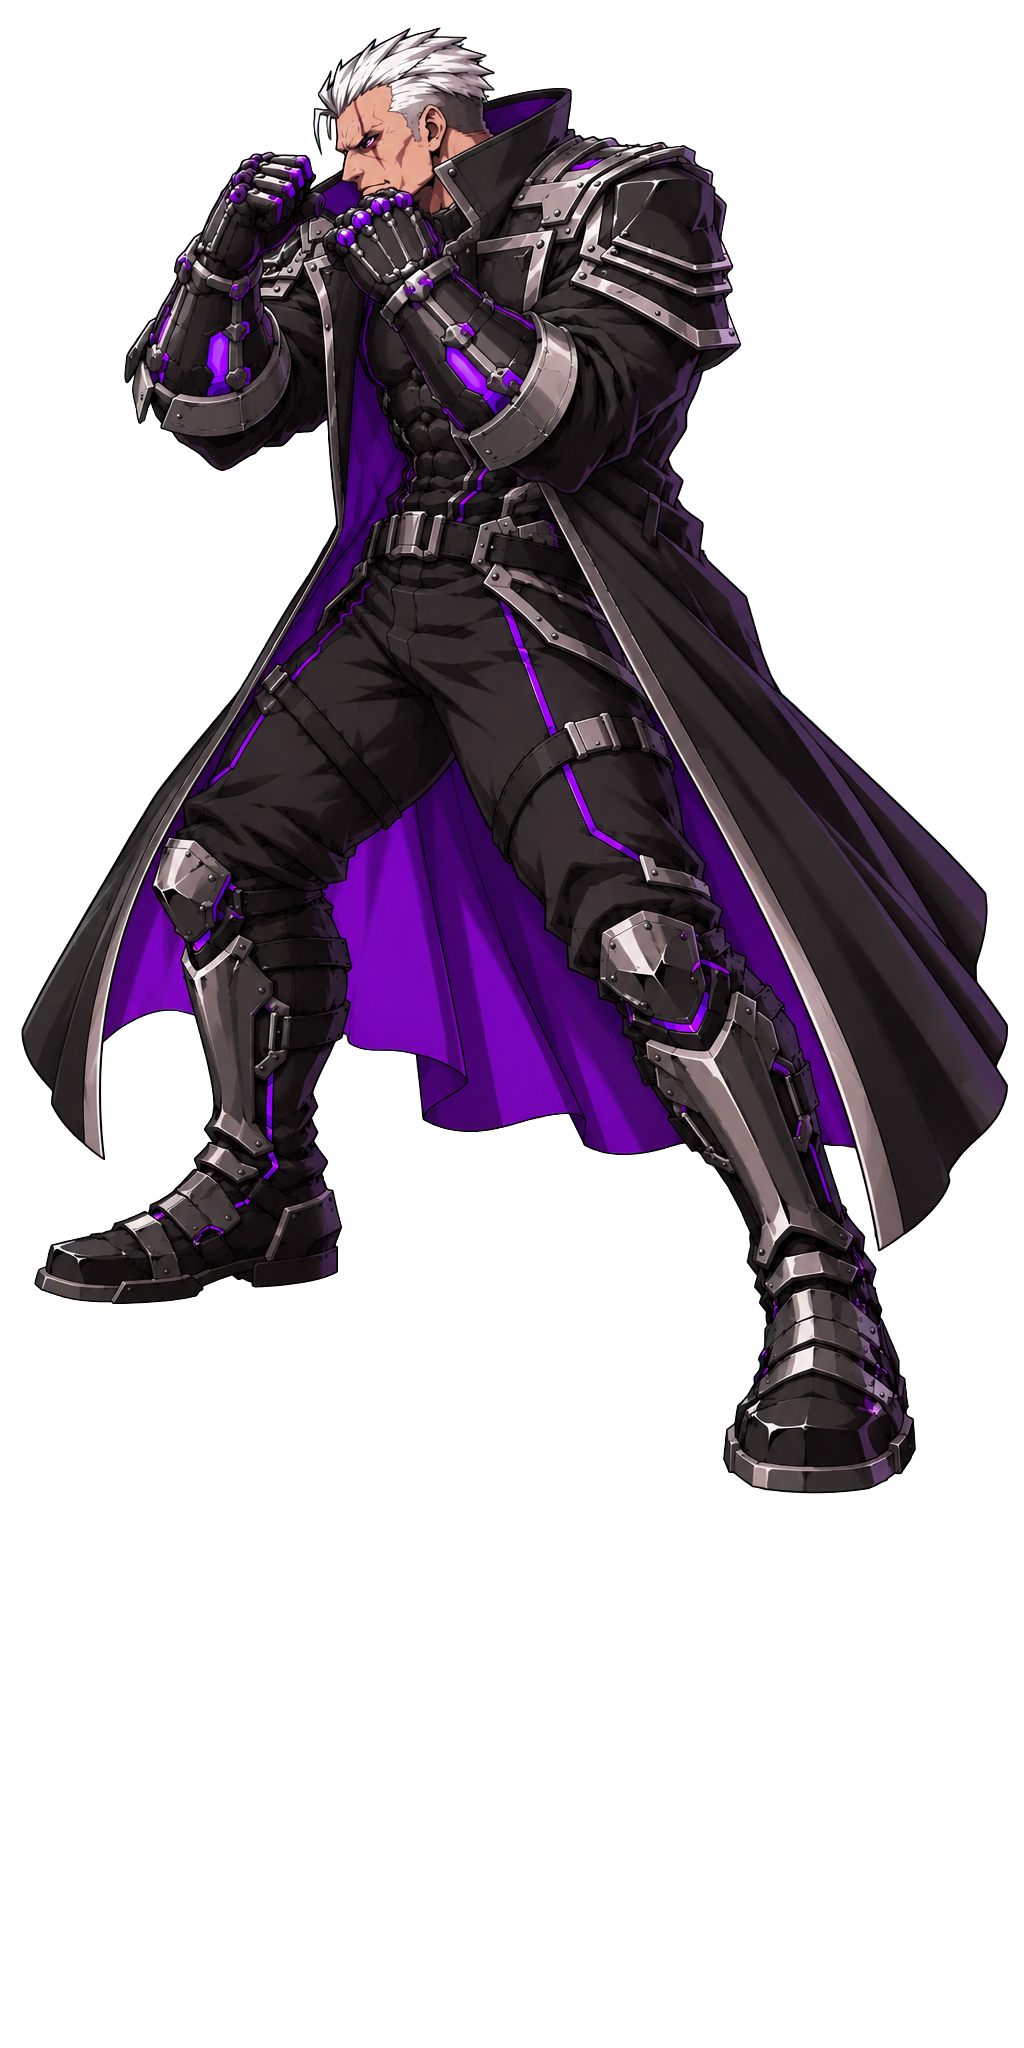
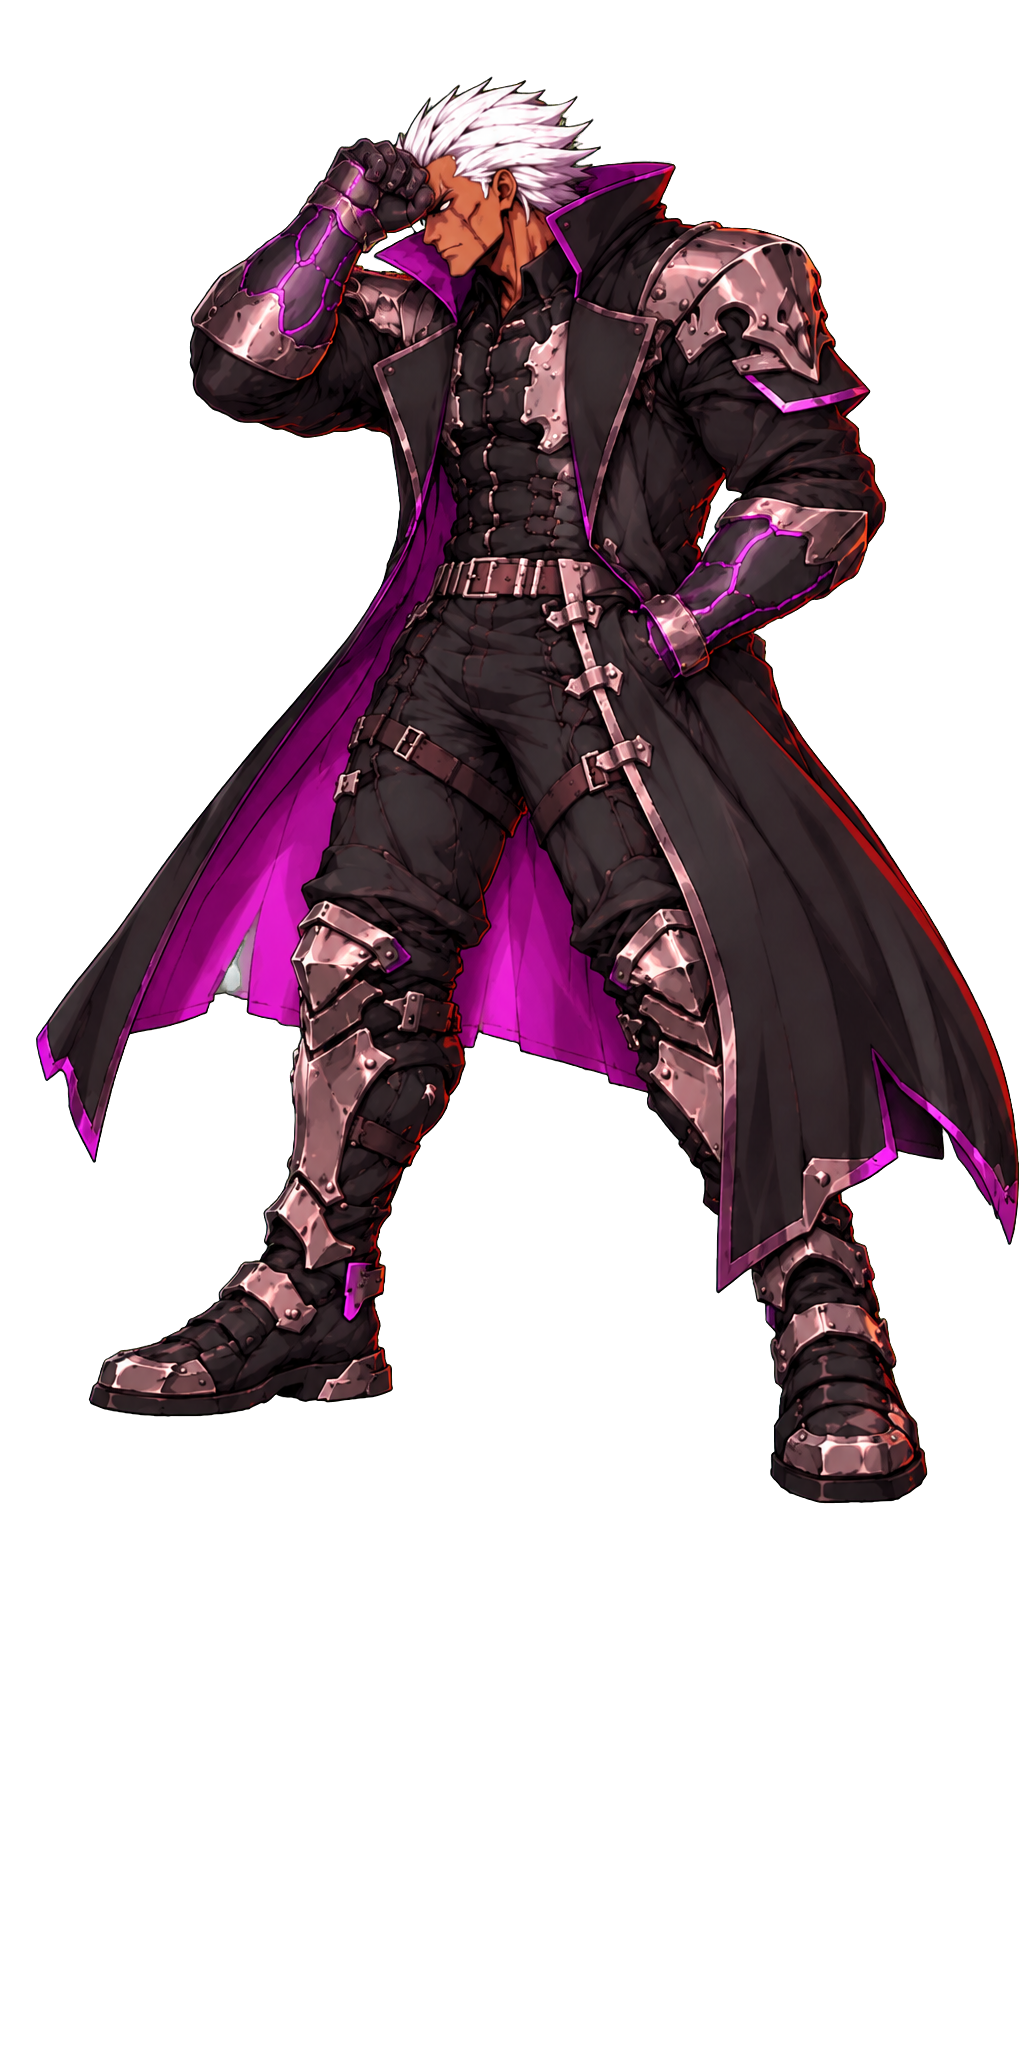
Lab : garde de l'adversaire remise ; les deux nouveaux dessins deviennent sa parade
Claude-Session: https://claude.ai/code/session_015fMRbsLJa9znv5DiAYkBLj

diff --git a/lab/src/game/rival/RivalLayer.ts b/lab/src/game/rival/RivalLayer.ts
@@ -19,9 +19,7 @@ type Point = [number, number]
  * que la tête garde la taille de celle de la garde (les illustrations ne sont pas à la même échelle).
  */
 const POSES = {
-  // garde : la main levée, et une variante où elle passe sur le front (les jambes ne bougent pas)
-  guard: { file: 'rival/guard.webp', ground: [560, 1469], scale: 1.1 },
-  guard2: { file: 'rival/guard-2.webp', ground: [559, 1471], scale: 1.1 },
+  guard: { file: 'rival/guard.webp', ground: [525, 1455], scale: 1.1 },
   // lévitation : calées sur le ceinturon de la garde, pour que le buste ne saute pas au changement de dessin ;
   // `ground` est alors le point sous le ceinturon, à hauteur du bas de la botte la plus basse
   floatForward: { file: 'rival/float-forward.webp', ground: [480, 1426], scale: 1.1 },
@@ -116,8 +114,9 @@ const POSES = {
   fxTrail3: { file: 'rival/fx-trail-3.webp', ground: [745, 1716], scale: 1 },
   fxBurst: { file: 'rival/fx-burst.webp', ground: [1057, 1716], scale: 1 },
   fxRing: { file: 'rival/fx-ring.webp', ground: [1057, 1716], scale: 1 },
-  blockStep: { file: 'rival/block-step.webp', ground: [519, 1414], scale: 1.1 },
-  block: { file: 'rival/block.webp', ground: [543, 1492], scale: 0.95 },
+  // parade : il lève la main (passage), puis se protège le front de l'avant-bras ; les jambes ne bougent pas
+  blockStep: { file: 'rival/block-step.webp', ground: [560, 1469], scale: 1.1 },
+  block: { file: 'rival/block.webp', ground: [559, 1471], scale: 1.1 },
   hurt: { file: 'rival/hurt.webp', ground: [490, 1478], scale: 0.9 },
   hurtRecover: { file: 'rival/hurt-recover.webp', ground: [564, 1472], scale: 0.9 },
 } satisfies Record<string, { file: string; ground: Point; scale: number }>
@@ -372,8 +371,6 @@ const MOVES: Record<MoveName, Move> = {
   },
 }
 /** Effets du coup spécial : durée de la croissance de la traînée, de son estompage et de l'explosion, en secondes. */
-/** Garde : toutes les `period` secondes, il garde `gesture` secondes la main sur le front (dessin `guard2`). */
-const GUARD_IDLE = { period: 3.2, gesture: 0.9 }
 const FX = { grow: 0.08, fade: 0.22, burst: 0.35 }
 /** Début de la première étape active d'un coup, en secondes : là où sa traînée d'énergie commence. */
 const activeStart = (move: Move) => {
@@ -1138,9 +1135,7 @@ export class RivalLayer implements Opponent {
       const at = (this.ghostX + PLACEMENT.depth * camera.ox - 0.5) * camera.zoom + 0.5
       drawPose('teleportStreak', 0.45 * (1 - ghost) ** 2, at, 1 + 0.5 * ghost)
     }
-    // en garde, il passe de temps en temps la main sur le front
-    const idle = this.pose === 'guard' && (frame.time % GUARD_IDLE.period) > GUARD_IDLE.period - GUARD_IDLE.gesture
-    if (!this.vanished) drawPose(idle ? 'guard2' : this.pose, 1)
+    if (!this.vanished) drawPose(this.pose, 1)
     // coup spécial : la traînée d'énergie grandit en trois dessins pendant la jambe tendue, puis s'estompe
     const strength = calm ? 0.6 : 1
     // (même effet sur le coup de poing de sa suite)

diff --git a/lab/docs/ASSETS.md b/lab/docs/ASSETS.md
@@ -74,7 +74,7 @@ python3 tools/prepare_rival.py
 
 Le script lit tous les `../art/rival-*.png` (personnage tourné vers la gauche, mêmes contraintes que les poses du personnage), retire le fond vert et écrit une image par pose dans `public/assets/rival/`. Il affiche aussi l'étendue des appuis et le bord avant du corps, qui servent à régler le point posé au sol, `surface` et `gap` dans `src/game/rival/RivalLayer.ts`.
 
-La garde de l'adversaire : `rival-guard.png` (la main levée, remplacée le 18 octobre) et sa variante `rival-guard-2.png` (la main sur le front). Pour la lévitation, `rival-float-forward.png` (penché vers l'avant, pour avancer) et `rival-float-back.png` (droit, pour reculer) et `rival-float-start.png` (pose de passage, droite, en l'air). Pour la téléportation : `rival-teleport-crouch.png`, `rival-teleport-streak.png` (le même, dans un trait de vitesse) et `rival-teleport-rise.png`. Pour son coup de poing : `rival-punch-ready.png`, `rival-punch-windup.png`, `rival-punch-reach.png` et `rival-punch-hit.png` (de dos, poing tendu), calés sur le pied arrière ; pour son coup de pied : `rival-kick-chamber.png`, `rival-kick-raise.png` et `rival-kick-hit.png`, calés sur la botte d'appui ; pour son coup de marteau : `rival-smash-raise.png`, `rival-smash-swing.png` et `rival-smash-hit.png`, calés sur la botte arrière (coupée par le bord droit : `NO_EDGE_FADE` dans `tools/prepare_rival.py` empêche de l'estomper) ; pour son uppercut : `rival-upper-crouch.png`, `rival-upper-rise.png` et `rival-upper-hit.png`, calés sur la botte arrière ; pour son coup de pied final : `rival-push-ready.png`, `rival-push-chamber.png` et `rival-push-hit.png`, calés sur la botte d'appui ; pour son coup spécial : `rival-special-stance.png`, `rival-special-chamber.png`, `rival-special-charge.png`, `rival-special-kick.png`, sa suite `rival-special2-ready/cock/punch/hit.png` (calés en arrière de la botte arrière pour ne pas chevaucher Moussa), et ses effets `rival-fx-trail-1..3.png`, `rival-fx-burst.png`, `rival-fx-ring.png` (cellules de la moitié sur fond vert de la planche fournie, agrandies sur une toile 1024 × 1536, cœur lumineux placé à un point fixe). Pour le début de son attaque ultime : `rival-ult-ready.png`, `rival-ult-charge-1.png`, `rival-ult-charge-2.png`, puis l'uppercut (les dessins `rival-upper-*` de l'enchaînement) puis la charge `rival-ult-power.png` (de face), `rival-ult-crouch-1..3.png` et l'envol `rival-ult-fly.png`, le retour en coup de poing vers le sol `rival-ult-land.png`, puis le coup de marteau à deux mains `rival-hammer-raise.png`, `rival-hammer-swing.png`, `rival-hammer-hit.png` et `rival-hammer-end.png`, et le bond en arrière qui suit, `rival-hop-1.png` à `rival-hop-8.png` (avec sa traînée de super vitesse, `rival-fx-streak.png`, un trait violet vertical) et l'impact au sol du décollage, `rival-fx-ground-1.png` à `rival-fx-ground-11.png` (petites images fournies par Moussa, recadrées, agrandies et posées au centre du bas d'une toile 1024 × 1536 ; les dessins 1, 10 et 11, plus petits, sont plus agrandis et donc un peu flous) (les deux premiers, en 1121 × 1403, ont été recadrés pieds en bas sur une toile 1024 × 1536), calés sur la botte arrière (non estompés au bord). Échelle mesurée du haut des cheveux au ceinturon. `tools/prepare_rival.py` estompe les dessins coupés par le bord droit de l'illustration (`EDGE_FADE`) : leur point `ground` dans `POSES` est pris sous le ceinturon, à la même place que dans la garde, et à hauteur du bas de la botte la plus basse.
+Sa parade : `rival-block-step.png` (la main levée, dessin de passage) et `rival-block.png` (l'avant-bras sur le front), sur le nouveau modèle. Pour la lévitation, `rival-float-forward.png` (penché vers l'avant, pour avancer) et `rival-float-back.png` (droit, pour reculer) et `rival-float-start.png` (pose de passage, droite, en l'air). Pour la téléportation : `rival-teleport-crouch.png`, `rival-teleport-streak.png` (le même, dans un trait de vitesse) et `rival-teleport-rise.png`. Pour son coup de poing : `rival-punch-ready.png`, `rival-punch-windup.png`, `rival-punch-reach.png` et `rival-punch-hit.png` (de dos, poing tendu), calés sur le pied arrière ; pour son coup de pied : `rival-kick-chamber.png`, `rival-kick-raise.png` et `rival-kick-hit.png`, calés sur la botte d'appui ; pour son coup de marteau : `rival-smash-raise.png`, `rival-smash-swing.png` et `rival-smash-hit.png`, calés sur la botte arrière (coupée par le bord droit : `NO_EDGE_FADE` dans `tools/prepare_rival.py` empêche de l'estomper) ; pour son uppercut : `rival-upper-crouch.png`, `rival-upper-rise.png` et `rival-upper-hit.png`, calés sur la botte arrière ; pour son coup de pied final : `rival-push-ready.png`, `rival-push-chamber.png` et `rival-push-hit.png`, calés sur la botte d'appui ; pour son coup spécial : `rival-special-stance.png`, `rival-special-chamber.png`, `rival-special-charge.png`, `rival-special-kick.png`, sa suite `rival-special2-ready/cock/punch/hit.png` (calés en arrière de la botte arrière pour ne pas chevaucher Moussa), et ses effets `rival-fx-trail-1..3.png`, `rival-fx-burst.png`, `rival-fx-ring.png` (cellules de la moitié sur fond vert de la planche fournie, agrandies sur une toile 1024 × 1536, cœur lumineux placé à un point fixe). Pour le début de son attaque ultime : `rival-ult-ready.png`, `rival-ult-charge-1.png`, `rival-ult-charge-2.png`, puis l'uppercut (les dessins `rival-upper-*` de l'enchaînement) puis la charge `rival-ult-power.png` (de face), `rival-ult-crouch-1..3.png` et l'envol `rival-ult-fly.png`, le retour en coup de poing vers le sol `rival-ult-land.png`, puis le coup de marteau à deux mains `rival-hammer-raise.png`, `rival-hammer-swing.png`, `rival-hammer-hit.png` et `rival-hammer-end.png`, et le bond en arrière qui suit, `rival-hop-1.png` à `rival-hop-8.png` (avec sa traînée de super vitesse, `rival-fx-streak.png`, un trait violet vertical) et l'impact au sol du décollage, `rival-fx-ground-1.png` à `rival-fx-ground-11.png` (petites images fournies par Moussa, recadrées, agrandies et posées au centre du bas d'une toile 1024 × 1536 ; les dessins 1, 10 et 11, plus petits, sont plus agrandis et donc un peu flous) (les deux premiers, en 1121 × 1403, ont été recadrés pieds en bas sur une toile 1024 × 1536), calés sur la botte arrière (non estompés au bord). Échelle mesurée du haut des cheveux au ceinturon. `tools/prepare_rival.py` estompe les dessins coupés par le bord droit de l'illustration (`EDGE_FADE`) : leur point `ground` dans `POSES` est pris sous le ceinturon, à la même place que dans la garde, et à hauteur du bas de la botte la plus basse.
 
 ## Décor : `tools/prepare_stage.py`
 

diff --git a/lab/docs/ARCHITECTURE.md b/lab/docs/ARCHITECTURE.md
@@ -259,8 +259,6 @@ Toucher conditionne aussi la suite de l'enchaînement :
 
 Quand Moussa encaisse un coup, il alterne deux dessins d'un coup à l'autre : le coup encaissé habituel (`hurt` puis `hurtRecover`), et plié au ventre (`hurtGut`, `HeroLayer.gut`).
 
-La garde de l'adversaire (`guard`, la main levée) passe de temps en temps à une variante où il se passe la main sur le front (`guard2`, réglages dans `GUARD_IDLE`) ; les jambes sont les mêmes dans les deux dessins.
-
 ## L'interface de combat
 
 `HudLayer` (`src/game/hud/`) tient et dessine les barres, à la manière de Street Fighter 6, Moussa à gauche et l'adversaire à droite. Elle se dessine sur la toile de la cinématique (`CinematicLayer.hud`), sous les annonces et les plans de coupe, et seulement quand les plans de l'intro ne couvrent plus l'écran.
